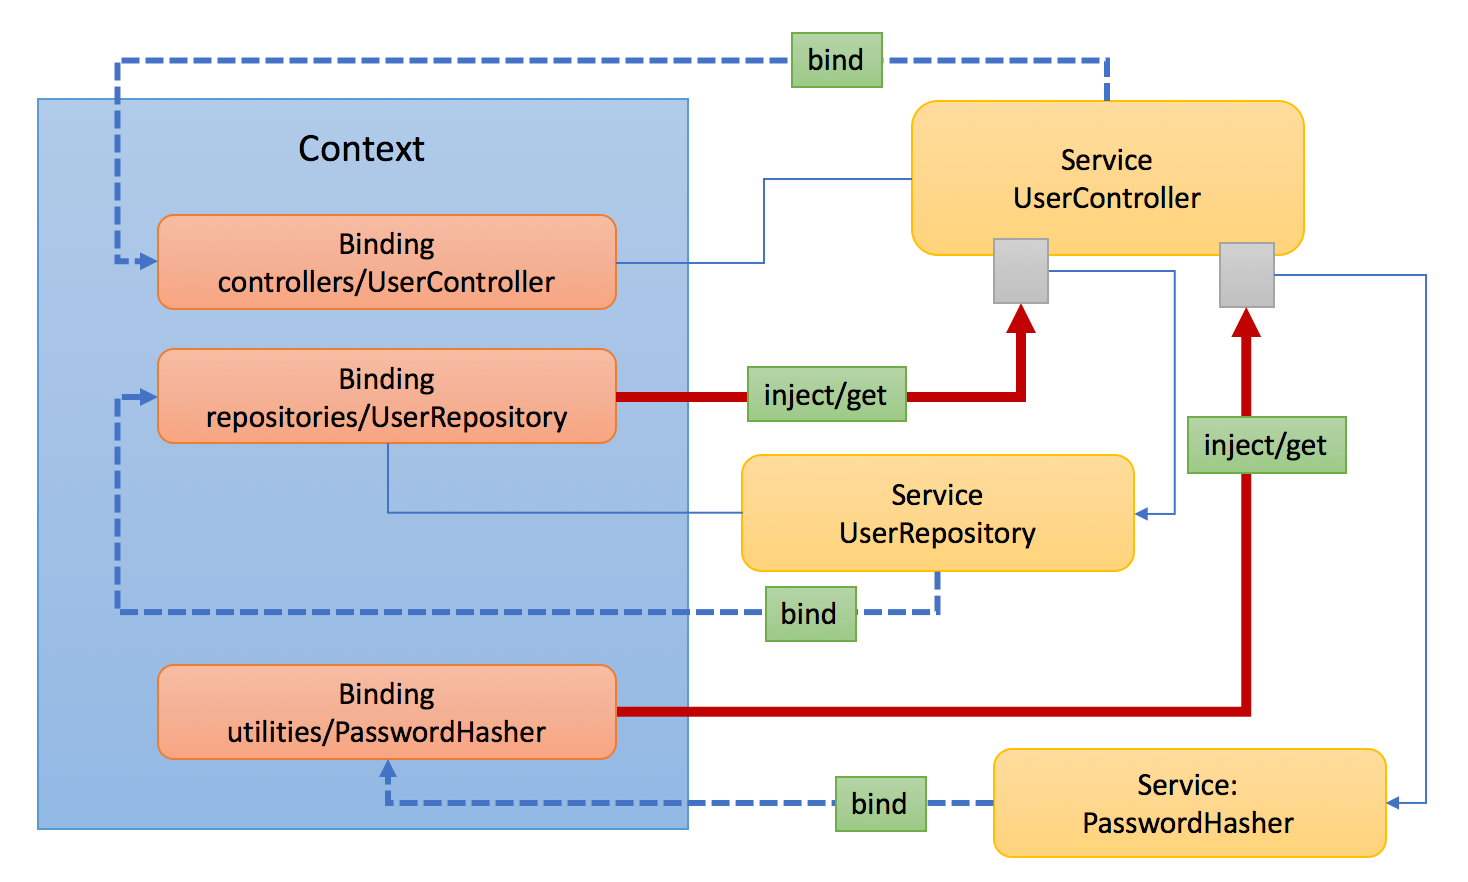
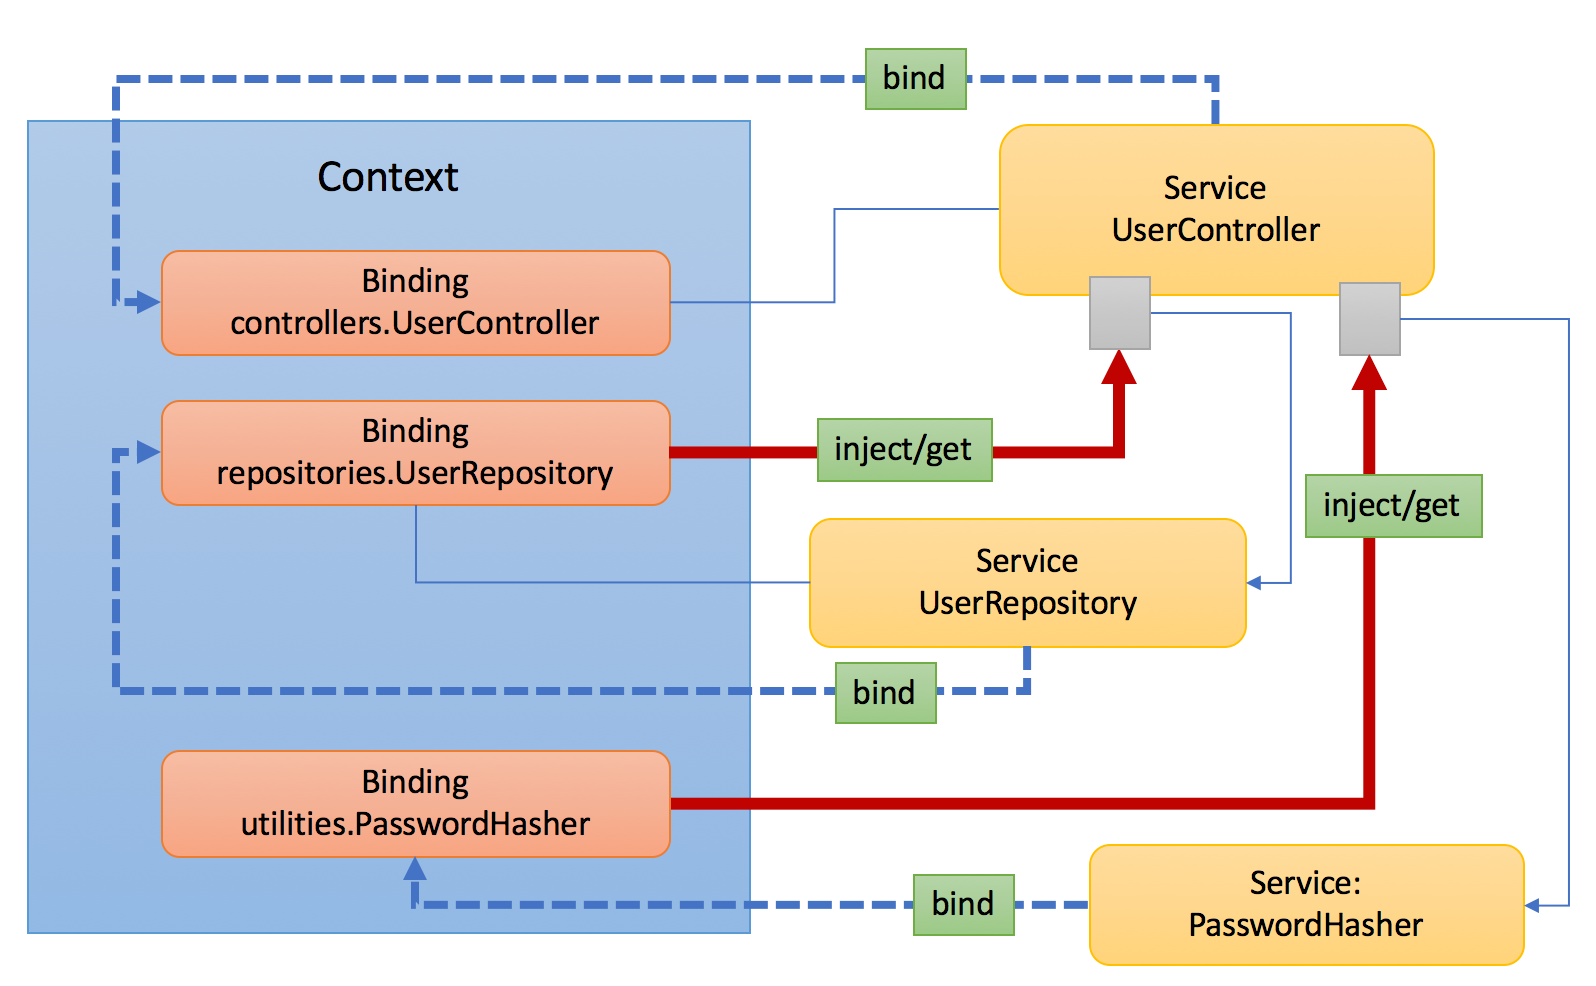
Extending LoopBack 4 (#486)
* Add Extending LoopBack 4

* Fix diagrams for lb4

* Fix Jekyll errors, etc

* Update Extending LoopBack

Changed region(s): [[0.0, 0.0306, 0.9809, 0.9796], [0.1839, 0.1531, 0.3065, 0.2143], [0.4292, 0.2755, 0.5211, 0.3367]]

diff --git a/pages/en/lb4/Extending-LoopBack-4.md b/pages/en/lb4/Extending-LoopBack-4.md
@@ -1,0 +1,110 @@
+---
+lang: en
+title: 'Extending LoopBack 4'
+keywords: LoopBack 4.0, LoopBack 4
+tags:
+sidebar: lb4_sidebar
+permalink: /doc/en/lb4/Extending-LoopBack-4.html
+summary:
+---
+
+## Overview
+
+LoopBack 4 is designed to be highly extensible. For architectural rationale and motivation, see [Crafting LoopBack 4](Crafting-LoopBack-4.html).
+
+## Building blocks for extensibility
+
+The `@loopback/context` module implements an [Inversion of Control](https://en.wikipedia.org/wiki/Inversion_of_control) (IoC) container (`Context`) as a service registry that supports [Dependency injection](Dependency-injection.html).
+
+![loopback-ioc](/images/lb4/loopback-ioc.png)
+
+The IoC container decouples service providers and consumers. A service provider can be bound to the context with a key, which can be treated as an address of the service provider. Service consumers can then either locate the provider using the binding key or declare a dependency using `@inject('a-service-provider')` so that the service provider can be injected into the consumer class. For example,
+
+```ts
+import {inject, Context} from '@loopback/context';
+
+/**
+ * A logger implementation that depends on log.prefix and log.level
+ */
+class Logger {
+  // Prefix and level are injected via the constructor
+  constructor(
+    @inject('log.prefix') private prefix: string, 
+    @inject('log.level') private level: string),
+  ) {}
+
+  log(msg: string) {
+    if (this.level === 'INFO') {
+      console.log(`[${this.prefix}] ${msg}`);
+    }
+  }
+}
+
+const ctx = new Context();
+// Bind log prefix as a constant value to the context
+ctx.bind('log.prefix').to('LoopBack');
+// Bind log level as a dynamic value derived from LOG_LEVEL environment variable
+ctx.bind('log.level').toDynamicValue(() => process.env.LOG_LEVEL);
+// Bind the Logger class as the logger implementation
+ctx.bind('logger').toClass(Logger);
+
+// Locate the an instance of Logger from the context
+const logger: Logger = await ctx.get('logger');
+// Run the log()
+logger.log('Hello');
+```
+
+How does the IoC container have anything to do with extensibility?
+
+1. An alternative implementation of the service provider can be bound the context to replace the existing one. For example, we can implement different hashing functions for password encryption. The user management system can then receive a custom password hashing.
+
+2. Services can be organized as extension points and extensions. For example, to allow multiple authentication strategies, the `authentication` component can define an extension point as `authentication-manager` and various authentication strategies such as user/password, LDAP, oAuth2 can be contributed to the extension point as extensions. The relation will look like:
+
+![loopback-extension](/images/lb4/loopback-extension.png)
+
+To allow a list of extensions to be contributed to LoopBack framework and applications, we introduce `Component` as the packaging model to bundle extensions. A component is either a npm module or a local folder structure that contains one or more extensions. It's then exported as a class implementing the `Component` interface. For example:
+
+```ts
+...
+import {Component, ProviderMap} from '@loopback/core';
+
+export class LogComponent implements Component {
+  providers?: ProviderMap;
+
+  constructor() {
+    this.providers = {
+      [LogBindings.LOG_ACTION]: LogProvider,
+    };
+  }
+}
+```
+
+![loopback-component](/images/lb4/loopback-component.png)
+
+See [Creating components](Creating-components.html)
+See [Using Components](Using-components.html)
+
+## Types of extensions
+
+- Binding providers
+- Decorators
+- Sequence & Actions
+- Connectors
+- Utility functions
+- Controllers
+- Repositories
+- Models
+- Mixins
+
+For a list of candidate extensions, see [loopback-next issue #512](https://github.com/strongloop/loopback-next/issues/512).
+
+### System vs Application extensions
+
+Some extensions are meant to extend the programming model and integration capability of the LoopBack 4 framework.
+
+An application can be decomposed into multiple components too
+
+## Examples & Tutorials
+
+- loopback4-example-log-extension
+- @loopback/authentication

diff --git a/pages/en/lb4/Crafting-LoopBack-4.md b/pages/en/lb4/Crafting-LoopBack-4.md
@@ -243,16 +243,16 @@ LoopBack manages various artifacts across different modules. The following are a
   - OpenStack
   - IBM Cloud Object Storage
 - Push component for mobile push notifications
-  - iOS 
+  - iOS
   - Android
 - Different API styles
   - REST
   - gRPC
   - GraphQL
 
-Metadata for these artifacts form the knowledge base for LoopBack to glue all the pieces together and build capabilities to handle common API use cases. 
+Metadata for these artifacts form the knowledge base for LoopBack to glue all the pieces together and build capabilities to handle common API use cases.
 
-How to represent the metadata and their relations is the key responsibility of the LoopBack core foundation. It needs to provide a consistent way to contribute and consume such building blocks. 
+How to represent the metadata and their relations is the key responsibility of the LoopBack core foundation. It needs to provide a consistent way to contribute and consume such building blocks.
 
 ### Key Ingredients for the Core
 
@@ -266,7 +266,7 @@ The core foundation for LoopBack 4 is responsible for managing various artifacts
 
 - Ability to compose with dependency resolution
 
-  - Composability: It's common that one artifact has dependencies on other artifacts. With dependency injection or service locator patterns, the core will greatly simplify how multiple artifacts work together. 
+  - Composability: It's common that one artifact to have dependencies on other artifacts. With dependency injection or service locator patterns, the core will greatly simplify how multiple artifacts work together.
 
 - A packaging model for extensions
 
@@ -326,7 +326,6 @@ Before we go further, let's try to build a 'hello world' application with LoopBa
 
 ## Example for extension developers
 
-LoopBack 4
 ### Hello-Extension
 
 ## References
